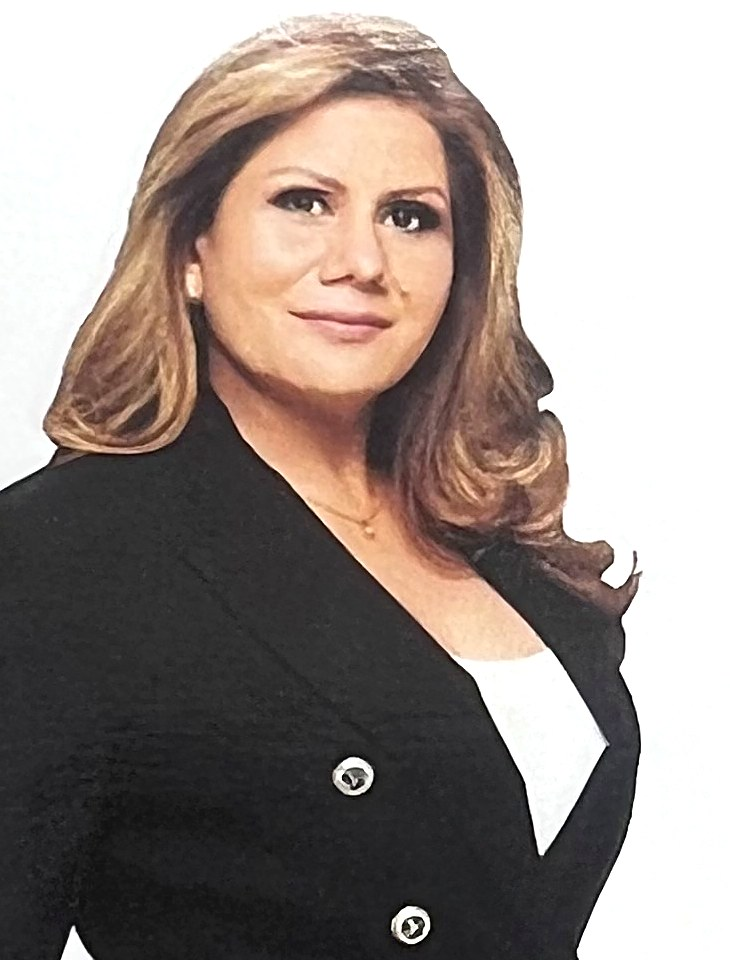
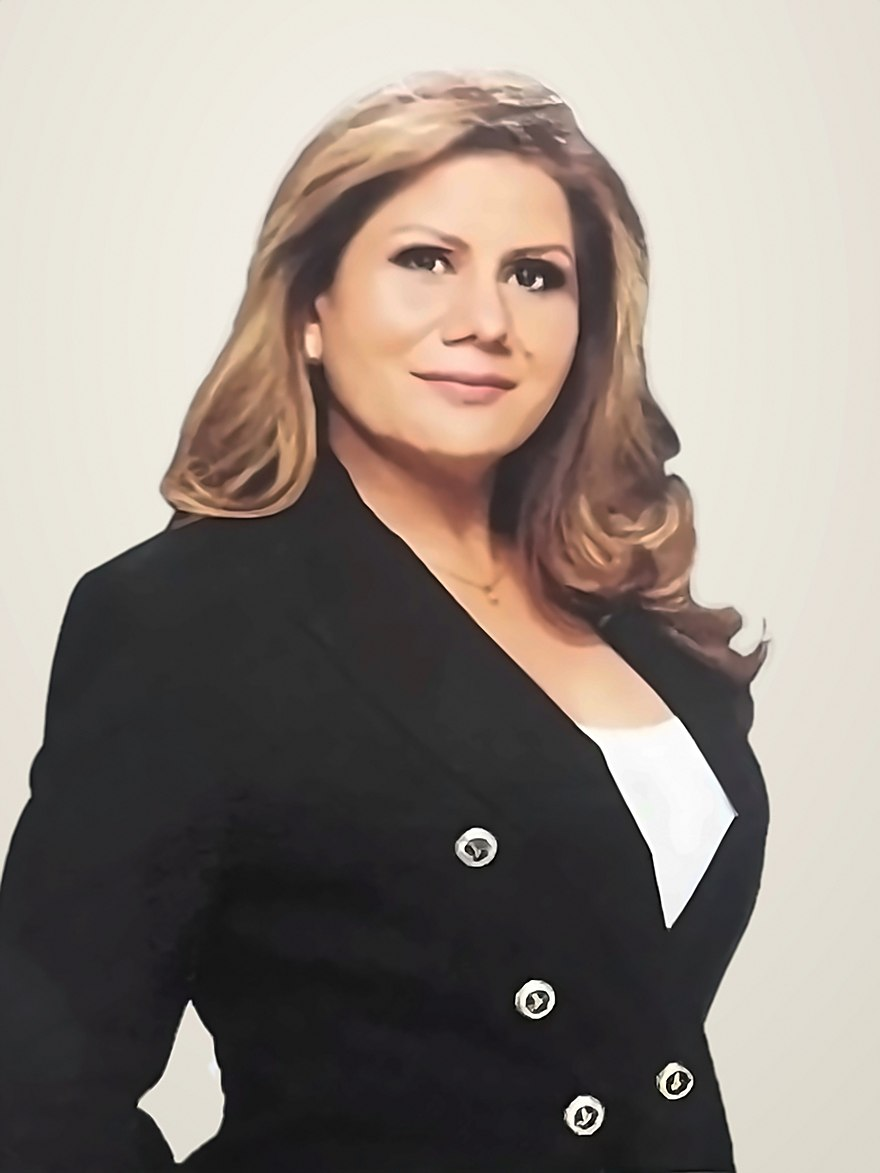
Upgrade portrait: studio backdrop, denoised, super-resolved
Rebuilt the portrait from the source photo: print noise removed,
subject isolated onto a clean studio-style backdrop, upscaled with
LapSRN x4. Ships an 880px web version plus a 3840x5120 master
(sandybains/portrait-4k.jpg) for print or social use.

Claude-Session: https://claude.ai/code/session_015cKba5CzwjZikUtmbqeeWW

diff --git a/index.html b/index.html
@@ -374,7 +374,7 @@ textarea{resize:vertical;min-height:8.5rem}
   <section class="about" id="about">
     <div class="wrap about-grid">
       <div class="portrait-frame rv">
-        <img src="sandybains/portrait.jpg" alt="Sandy Bains, REALTOR®" width="730" height="960">
+        <img src="sandybains/portrait.jpg" alt="Sandy Bains, REALTOR®" width="880" height="1173">
         <p class="portrait-cap">Sandy Bains, REALTOR®<br>HomeLife/Silvercity Realty Inc., Brokerage — Brampton, Ontario</p>
       </div>
       <div class="rv">